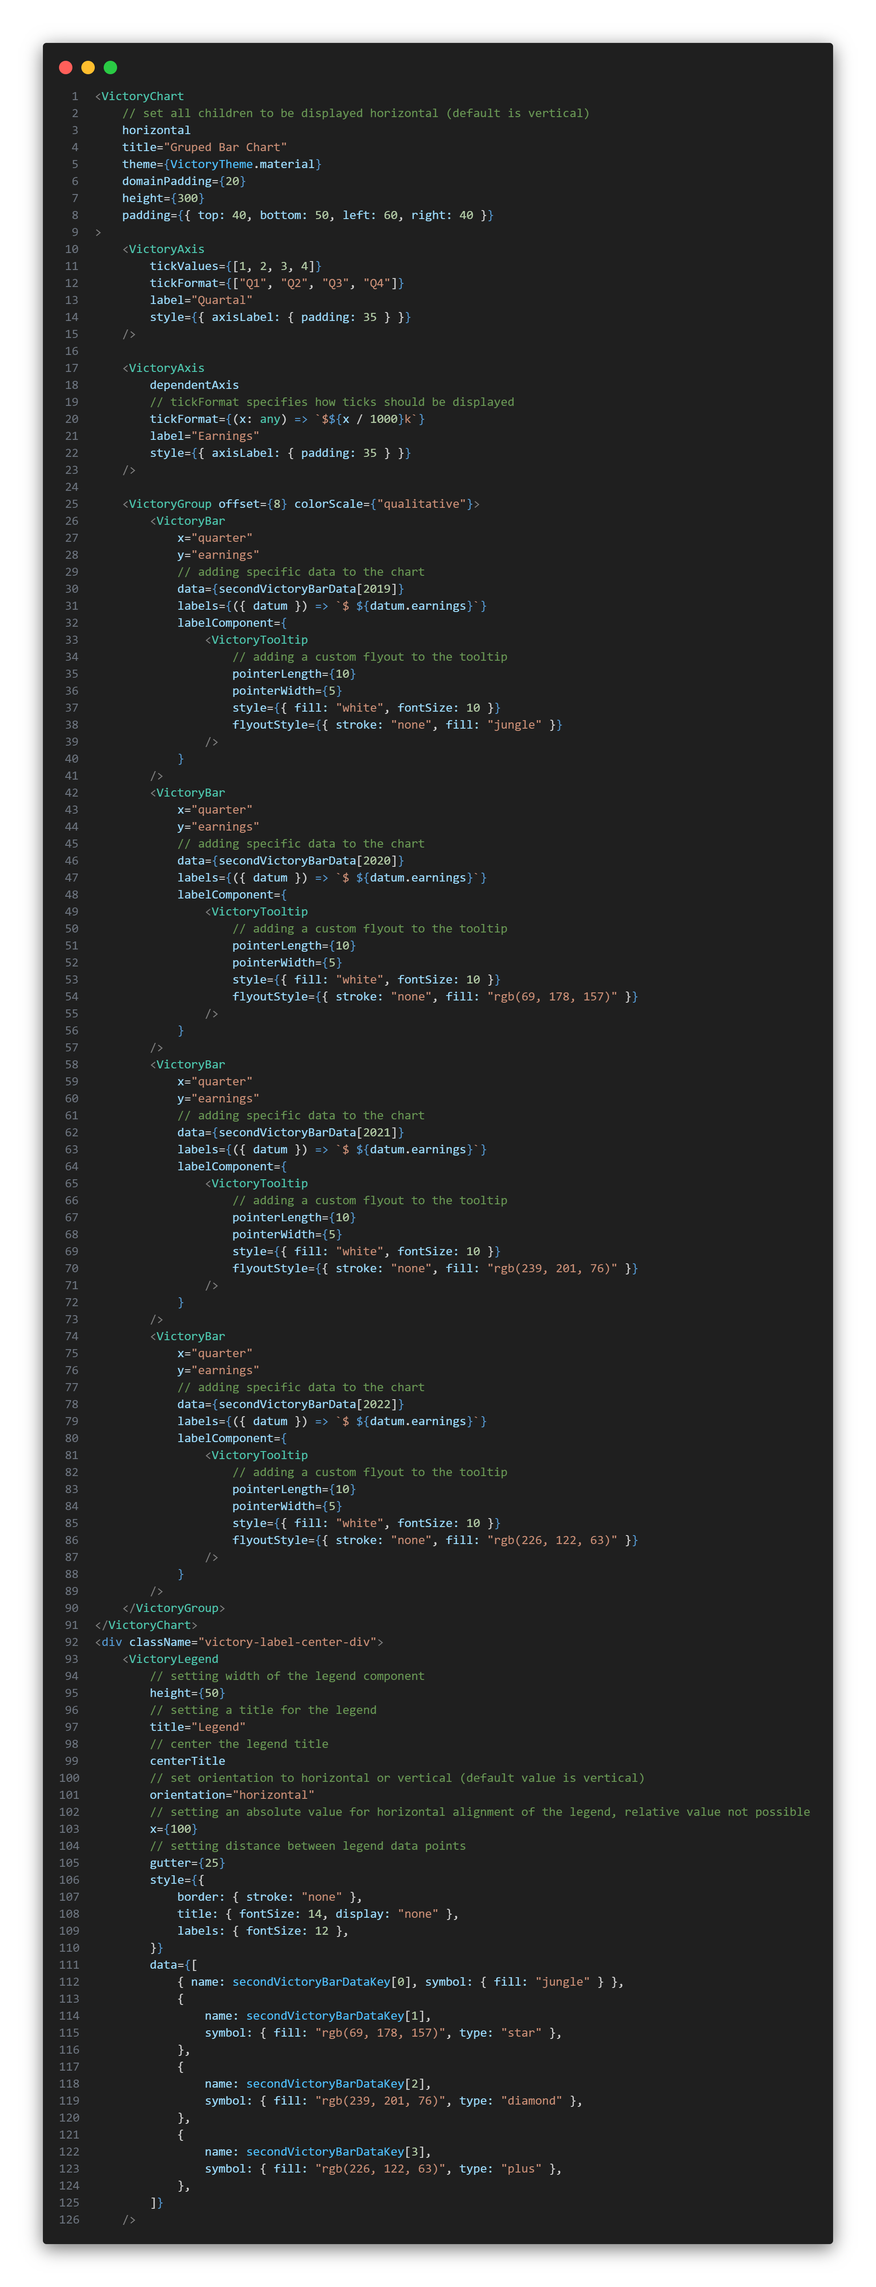
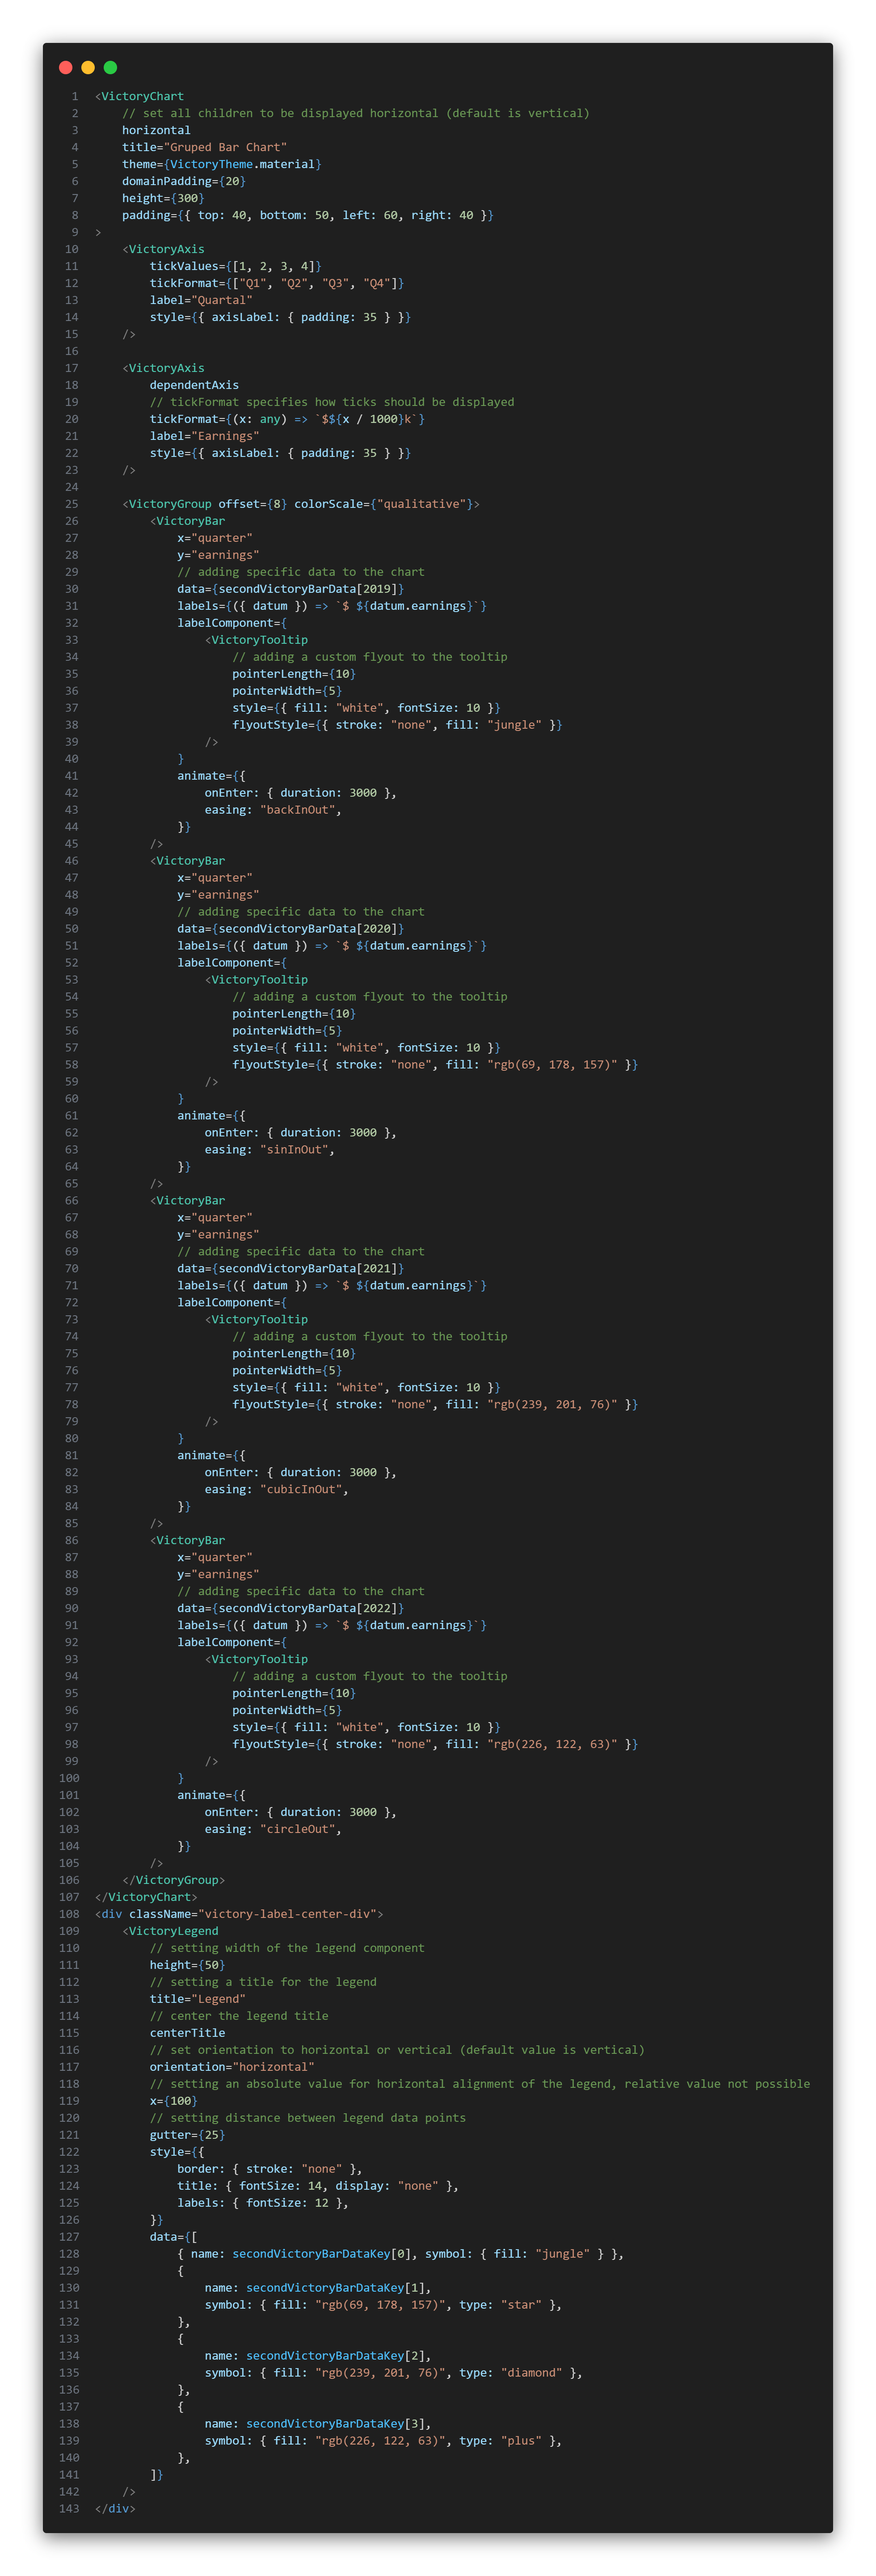
chore: wip

diff --git a/app/page.tsx b/app/page.tsx
@@ -39,19 +39,7 @@ export default function Page() {
                 <h2>Entwicklung von Brutto- und Nettoeinkommen</h2>
                 <section>
                     <h3>Durchschnittliches Brutto- und Nettoeinkommen seit 2008</h3>
-                    <code>
-                        Quelle:{" "}
-                        <Link href="https://www.destatis.de/DE/Themen/Wirtschaft/Volkswirtschaftliche-Gesamtrechnungen-Inlandsprodukt/Publikationen/Downloads-Inlandsprodukt/inlandsprodukt-vierteljahr-pdf-2180120.pdf?__blob=publicationFile">
-                            Destatis
-                        </Link>
-                    </code>
-                    <p>
-                        Im Jahr 2022 betrug der Durchschnitt der monatlichen Bruttolöhne/ Bruttogehälter je Arbeitnehmer
-                        in Deutschland 3.332 Euro. Abzüglich der Steuern und Sozialabgaben betrug der durchschnittliche
-                        monatliche Nettoverdienst je Arbeitnehmer in Deutschland 2.245 Euro. Der durchschnittliche
-                        Bruttomonatsverdienst eines vollzeitbeschäftigten Arbeitnehmers betrug im Jahr 2021 rund 4.100
-                        Euro.
-                    </p>
+
                     <div>
                         <VictoryChart
                             title="Brutto- und Nettoeinkommen in Deutschland"
@@ -162,9 +150,6 @@ export default function Page() {
                             ]}
                         />
                     </div>
-                </section>
-                <section>
-                    <h3>Entwicklung von Brutto und Netto im Vergleich zum Vorjahr</h3>
                     <code>
                         Quelle:{" "}
                         <Link href="https://www.destatis.de/DE/Themen/Wirtschaft/Volkswirtschaftliche-Gesamtrechnungen-Inlandsprodukt/Publikationen/Downloads-Inlandsprodukt/inlandsprodukt-vierteljahr-pdf-2180120.pdf?__blob=publicationFile">
@@ -172,13 +157,16 @@ export default function Page() {
                         </Link>
                     </code>
                     <p>
-                        Die Statistik zeigt die prozentuale Entwicklung der Brutto- und Nettoeinkommen in Deutschland im
-                        Vergleich zum jeweiligen Vorjahreswert. Dabei ist zu erkennen, dass die Werte sich meist nicht
-                        stark unterscheiden. In den Jahren 2010 und 2011 ist ersichtlich, dass das Nettoeinkommen pro
-                        Kopf stärker gestiegen ist als das Bruttoeinkommen, was auf Steuererleichterungen hindeutet. In
-                        Zeiten der aktuellen Inflation aufgrund des russischen Angriffskrieges gegen die Ukraine sind
-                        solche Erleichterungen für Bürger:innen noch nicht finanziell messbar.
+                        Im Jahr 2022 betrug der Durchschnitt der monatlichen Bruttolöhne/ Bruttogehälter je Arbeitnehmer
+                        in Deutschland 3.332 Euro. Abzüglich der Steuern und Sozialabgaben betrug der durchschnittliche
+                        monatliche Nettoverdienst je Arbeitnehmer in Deutschland 2.245 Euro. Der durchschnittliche
+                        Bruttomonatsverdienst eines vollzeitbeschäftigten Arbeitnehmers betrug im Jahr 2021 rund 4.100
+                        Euro.
                     </p>
+                </section>
+                <section>
+                    <h3>Entwicklung von Brutto und Netto im Vergleich zum Vorjahr</h3>
+
                     <div>
                         <VictoryChart
                             title="Brutto- und Nettoeinkommen in Deutschland"
@@ -199,7 +187,7 @@ export default function Page() {
                                             pointerLength={20}
                                             pointerWidth={5}
                                             style={{ fill: "white" }}
-                                            flyoutStyle={{ stroke: "none", fill: "jungle" }}
+                                            flyoutStyle={{ stroke: "none", fill: "steelblue" }}
                                         />
                                     }
                                 />
@@ -289,6 +277,20 @@ export default function Page() {
                             ]}
                         />
                     </div>
+                    <code>
+                        Quelle:{" "}
+                        <Link href="https://www.destatis.de/DE/Themen/Wirtschaft/Volkswirtschaftliche-Gesamtrechnungen-Inlandsprodukt/Publikationen/Downloads-Inlandsprodukt/inlandsprodukt-vierteljahr-pdf-2180120.pdf?__blob=publicationFile">
+                            Destatis
+                        </Link>
+                    </code>
+                    <p>
+                        Die Statistik zeigt die prozentuale Entwicklung der Brutto- und Nettoeinkommen in Deutschland im
+                        Vergleich zum jeweiligen Vorjahreswert. Dabei ist zu erkennen, dass die Werte sich meist nicht
+                        stark unterscheiden. In den Jahren 2010 und 2011 ist ersichtlich, dass das Nettoeinkommen pro
+                        Kopf stärker gestiegen ist als das Bruttoeinkommen, was auf Steuererleichterungen hindeutet. In
+                        Zeiten der aktuellen Inflation aufgrund des russischen Angriffskrieges gegen die Ukraine sind
+                        solche Erleichterungen für Bürger:innen noch nicht finanziell messbar.
+                    </p>
                 </section>
             </article>
             <article>
@@ -296,6 +298,55 @@ export default function Page() {
                     Verteilung der sozialversicherungspflichtigen Vollzeitbeschäftigten in Deutschland nach
                     Einkommensgruppen (Bruttoeinkommen pro Monat) von 2012 bis 2021
                 </h2>
+
+                <div className="einkommen-pie-chart">
+                    <VictoryPie
+                        theme={VictoryTheme.material}
+                        height={400}
+                        width={500}
+                        padding={{ top: 30, bottom: 50, left: 50, right: 50 }}
+                        data={bruttoGruppen}
+                        x="gruppe"
+                        y="anteil"
+                        style={{ data: { stroke: "white", strokeWidth: 1 } }}
+                        labels={({ datum }) => `${datum.gruppe}: ${datum.anteil} %`}
+                        innerRadius={50}
+                        labelComponent={
+                            <VictoryTooltip
+                                // adding a custom flyout to the tooltip
+                                pointerLength={30}
+                                pointerWidth={5}
+                                style={{ fill: "white", fontSize: 12 }}
+                                flyoutStyle={{ stroke: "none", fill: "grey", fontSize: 12 }}
+                            />
+                        }
+                    />
+                </div>
+                <div className="victory-label-center-div">
+                    <VictoryLegend
+                        height={80}
+                        title="Legend"
+                        padding={0}
+                        centerTitle
+                        orientation="horizontal"
+                        x={20}
+                        itemsPerRow={3}
+                        gutter={30}
+                        style={{
+                            border: { stroke: "none" },
+                            title: { fontSize: 0, display: "none" },
+                            labels: { fontSize: 10 },
+                        }}
+                        data={[
+                            { name: "bis 1000 €", symbol: { fill: "rgb(244, 81, 30)" } },
+                            { name: "über 1000 bis 2000 €", symbol: { fill: "rgb(255, 245, 157)" } },
+                            { name: "über 2000 bis 3000 €", symbol: { fill: "rgb(220, 231, 117)" } },
+                            { name: "über 3000 bis 4000 €", symbol: { fill: "#8BC34A" } },
+                            { name: "über 4000 bis 5000 €", symbol: { fill: "#00796B" } },
+                            { name: "über 5000 €", symbol: { fill: "#006064" } },
+                        ]}
+                    />
+                </div>
                 <code>
                     Quelle:{" "}
                     <Link href="https://de.statista.com/statistik/daten/studie/577307/umfrage/verteilung-der-beschaeftigten-in-deutschland-nach-einkommensgruppen/">
@@ -308,67 +359,16 @@ export default function Page() {
                     der sozialversicherungspflichtigen Vollzeitbeschäftigten in Deutschland nicht einmal 1.000 Euro im
                     Monat. Über ein Drittel hingegen verdienten mehr als 4000 Euro brutto im Monat.
                 </p>
-                <div>
-                    <VictoryPie
-                        theme={VictoryTheme.material}
-                        padding={{ top: 20, bottom: 0, left: 80, right: 80 }}
-                        data={bruttoGruppen}
-                        x="gruppe"
-                        y="anteil"
-                        style={{ data: { stroke: "white", strokeWidth: 1 } }}
-                        labels={({ datum }) => `${datum.gruppe}: ${datum.anteil} %`}
-                        innerRadius={10}
-                        labelComponent={
-                            <VictoryTooltip
-                                // adding a custom flyout to the tooltip
-                                pointerLength={30}
-                                pointerWidth={5}
-                                style={{ fill: "white", fontSize: 12 }}
-                                flyoutStyle={{ stroke: "none", fill: "grey" }}
-                            />
-                        }
-                    />
-                </div>
-                <div className="victory-label-center-div">
-                    <VictoryLegend
-                        height={70}
-                        title="Legend"
-                        centerTitle
-                        orientation="horizontal"
-                        x={10}
-                        itemsPerRow={3}
-                        gutter={25}
-                        style={{
-                            border: { stroke: "none" },
-                            title: { fontSize: 0, display: "none" },
-                            labels: { fontSize: 11 },
-                        }}
-                        data={[
-                            { name: "bis 1000 €", symbol: { fill: "rgb(244, 81, 30)" } },
-                            { name: "über 1000 bis 2000 €", symbol: { fill: "rgb(255, 245, 157)" } },
-                            { name: "über 2000 bis 3000 €", symbol: { fill: "rgb(220, 231, 117)" } },
-                            { name: "über 3000 bis 4000 €", symbol: { fill: "#8BC34A" } },
-                            { name: "über 4000 bis 5000 €", symbol: { fill: "#00796B" } },
-                            { name: "über 5000 €", symbol: { fill: "#006064" } },
-                        ]}
-                    />
-                </div>
             </article>
             <article>
                 <h2>Verteilung des jährlichen Nettoäquvalenzeinkommens nach Haushaltstyp 2021</h2>
-                <code>
-                    Quelle:{" "}
-                    <Link href="https://www.destatis.de/DE/Presse/Pressemitteilungen/2022/10/PD22_N062_63.html">
-                        Destatis
-                    </Link>
-                </code>
-                <p>blabla</p>
-                <div>
+
+                <div className="haushalts-gruppen-chart">
                     <VictoryChart
                         horizontal
                         title="Verteilung Nettoäquivalenzeinkommen in Deutschland 2021"
                         domainPadding={20}
-                        padding={{ top: 20, bottom: 100, left: 180, right: 10 }}
+                        padding={{ top: 30, bottom: 100, left: 150, right: 10 }}
                         height={500}
                         width={600}
                         theme={VictoryTheme.material}
@@ -433,11 +433,11 @@ export default function Page() {
                                     <VictoryTooltip
                                         pointerLength={10}
                                         pointerWidth={5}
-                                        style={{ fill: "black", fontSize: 10 }}
-                                        flyoutStyle={{ stroke: "none", fill: "aliceblue" }}
+                                        style={{ fill: "white", fontSize: 10 }}
+                                        flyoutStyle={{ stroke: "none", fill: "saddlebrown" }}
                                     />
                                 }
-                                style={{ data: { fill: "aliceblue" } }}
+                                style={{ data: { fill: "saddlebrown" } }}
                             />
                             <VictoryBar
                                 barWidth={8}
@@ -540,7 +540,7 @@ export default function Page() {
                 </div>
                 <div className="victory-label-center-div">
                     <VictoryLegend
-                        height={60}
+                        height={80}
                         title="Haushaltstypen"
                         centerTitle
                         orientation="horizontal"
@@ -559,11 +559,26 @@ export default function Page() {
                             { name: "Zwei Erwachsene / ein Kind", symbol: { fill: "chocolate" } },
                             { name: "Alleinerziehende[r]", symbol: { fill: "blueviolet" } },
                             { name: "+=3 Erwachsene", symbol: { fill: "aquamarine" } },
-                            { name: "Zwei Erwachsene", symbol: { fill: "aliceblue" } },
+                            { name: "Zwei Erwachsene", symbol: { fill: "saddlebrown" } },
                             { name: "Ein Erwachsener", symbol: { fill: "acidblue" } },
                         ]}
                     />
                 </div>
+                <code>
+                    Quelle:{" "}
+                    <Link href="https://www.destatis.de/DE/Presse/Pressemitteilungen/2022/10/PD22_N062_63.html">
+                        Destatis
+                    </Link>
+                </code>
+                <p>
+                    Wie das Statistische Bundesamt (Destatis) mitteilt, stand nach Ergebnissen der Erhebung zu Einkommen
+                    und Lebensbedingungen (EU-SILC) 2021 einem Fünftel der Bevölkerung in Deutschland ein jährliches
+                    Nettoäquivalenzeinkommen von unter 16 300 Euro zur Verfügung. Beim Äquivalenzeinkommen handelt es
+                    sich um ein um Einspareffekte in Mehrpersonenhaushalten bereinigtes Pro-Kopf-Einkommen.
+                    Einkommensreferenzjahr ist das Vorjahr der Erhebung. So hatten zwei Fünftel (40 %) der Bevölkerung
+                    ein Nettoäquivalenzeinkommen von unter 22 000 Euro im Jahr. Auf der anderen Seite hatten zwei
+                    Fünftel (40 %) der Bevölkerung ein Einkommen von 28 400 Euro und mehr.
+                </p>
             </article>
         </div>
     );

diff --git a/app/advanced-charts/page.tsx b/app/advanced-charts/page.tsx
@@ -203,6 +203,10 @@ export default function Page() {
                                         flyoutStyle={{ stroke: "none", fill: "jungle" }}
                                     />
                                 }
+                                animate={{
+                                    onEnter: { duration: 3000 },
+                                    easing: "backInOut",
+                                }}
                             />
                             <VictoryBar
                                 x="quarter"
@@ -219,6 +223,10 @@ export default function Page() {
                                         flyoutStyle={{ stroke: "none", fill: "rgb(69, 178, 157)" }}
                                     />
                                 }
+                                animate={{
+                                    onEnter: { duration: 3000 },
+                                    easing: "sinInOut",
+                                }}
                             />
                             <VictoryBar
                                 x="quarter"
@@ -235,6 +243,10 @@ export default function Page() {
                                         flyoutStyle={{ stroke: "none", fill: "rgb(239, 201, 76)" }}
                                     />
                                 }
+                                animate={{
+                                    onEnter: { duration: 3000 },
+                                    easing: "cubicInOut",
+                                }}
                             />
                             <VictoryBar
                                 x="quarter"
@@ -251,6 +263,10 @@ export default function Page() {
                                         flyoutStyle={{ stroke: "none", fill: "rgb(226, 122, 63)" }}
                                     />
                                 }
+                                animate={{
+                                    onEnter: { duration: 3000 },
+                                    easing: "circleOut",
+                                }}
                             />
                         </VictoryGroup>
                     </VictoryChart>
@@ -295,7 +311,7 @@ export default function Page() {
                     <Image
                         src="/../public/images/codesnap/advanced-charts-Group.png"
                         width={2000}
-                        height={2000}
+                        height={2050}
                         quality={100}
                         alt="Code Snippet"
                     />

diff --git a/app/layout.tsx b/app/layout.tsx
@@ -14,16 +14,9 @@ export const metadata: Metadata = {
     },
 };
 
-// function switchTheme() {
-//     document.getElementById("theme-switcher")?.addEventListener("click", function () {
-//         if (document.getElementById("theme-switcher")?.classList.contains("token"))
-//         document.getElementById("theme-switcher")?.data-theme.;
-//     });
-// }
-
 export default function RootLayout({ children }: { children: React.ReactNode }) {
     return (
-        <html lang="en" data-theme="light">
+        <html lang="de" data-theme="light">
             <body className="container">
                 <header>
                     <Navbar />

diff --git a/app/basic-charts/page.tsx b/app/basic-charts/page.tsx
@@ -51,7 +51,7 @@ export default function Page() {
             <section>
                 <h2>Einfache Einbettung von Daten</h2>
                 <article>
-                    <h3>Innehrhalb einer JavaScript/TypeScript-Datei</h3>
+                    <h3>Innerhalb einer JavaScript/TypeScript-Datei</h3>
                     <ul>
                         <li>Die Daten können direkt im selben File wie die Victory-Charts definiert werden</li>
                         <li>Einfachste Variante: Im selben File wie die Victory-Komponenten</li>

diff --git a/app/globals.css b/app/globals.css
@@ -28,3 +28,17 @@ img {
     margin: 0 auto;
     text-align: center;
 }
+
+p {
+    hyphens: auto;
+}
+
+.einkommen-pie-chart {
+    max-width: 66%;
+    margin: 0 auto;
+}
+
+.haushalts-gruppen-chart {
+    max-width: 80%;
+    margin: 0 auto;
+}
